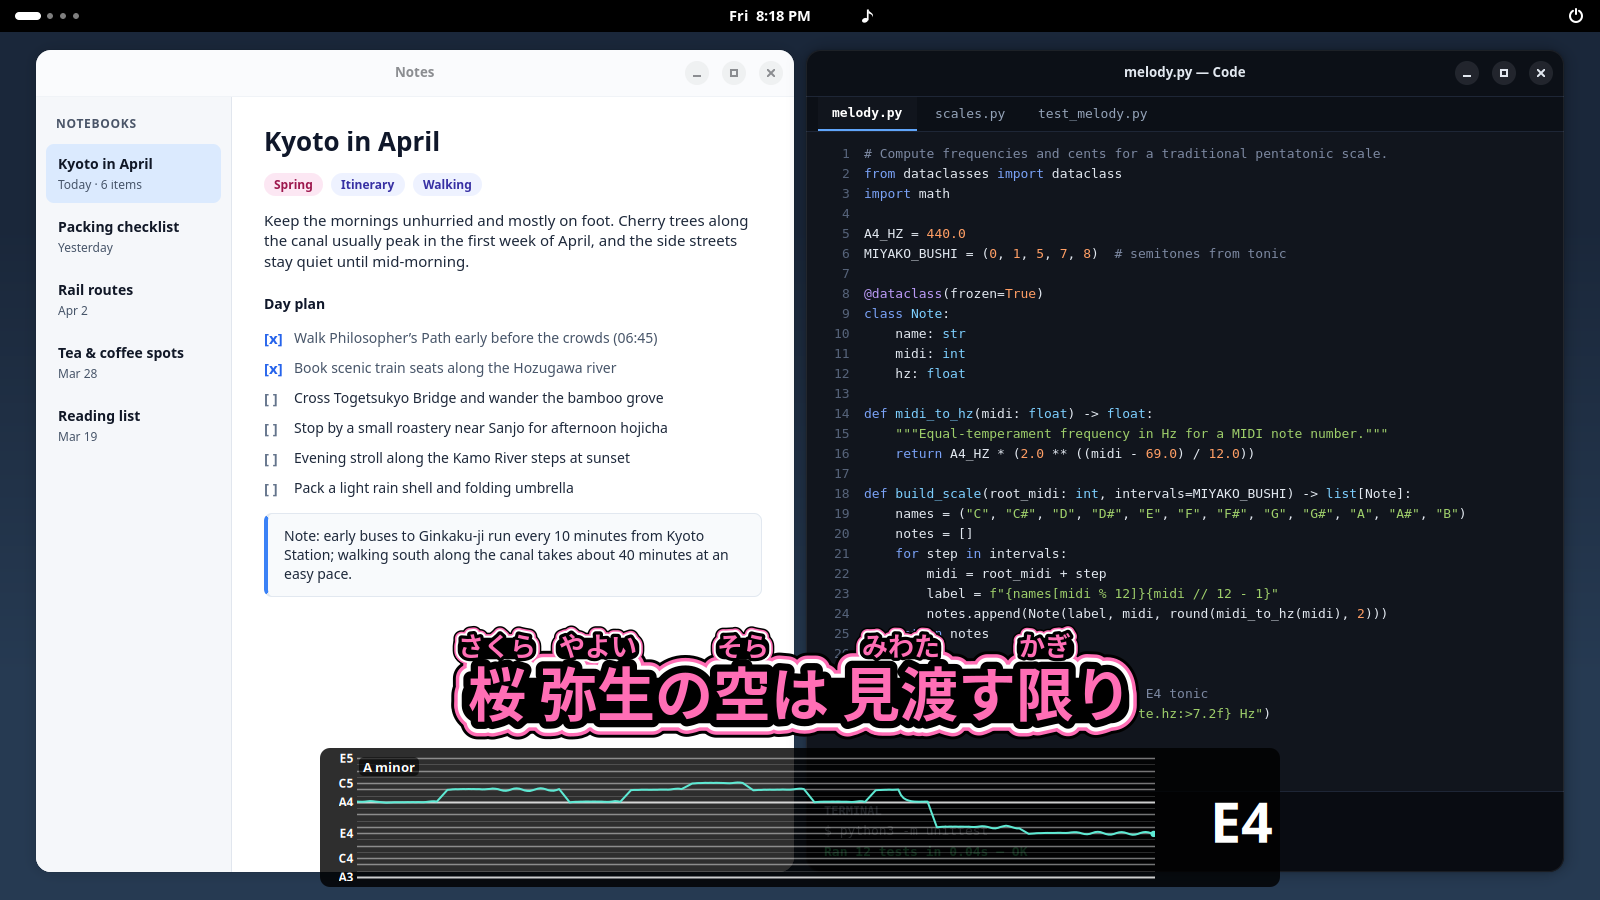
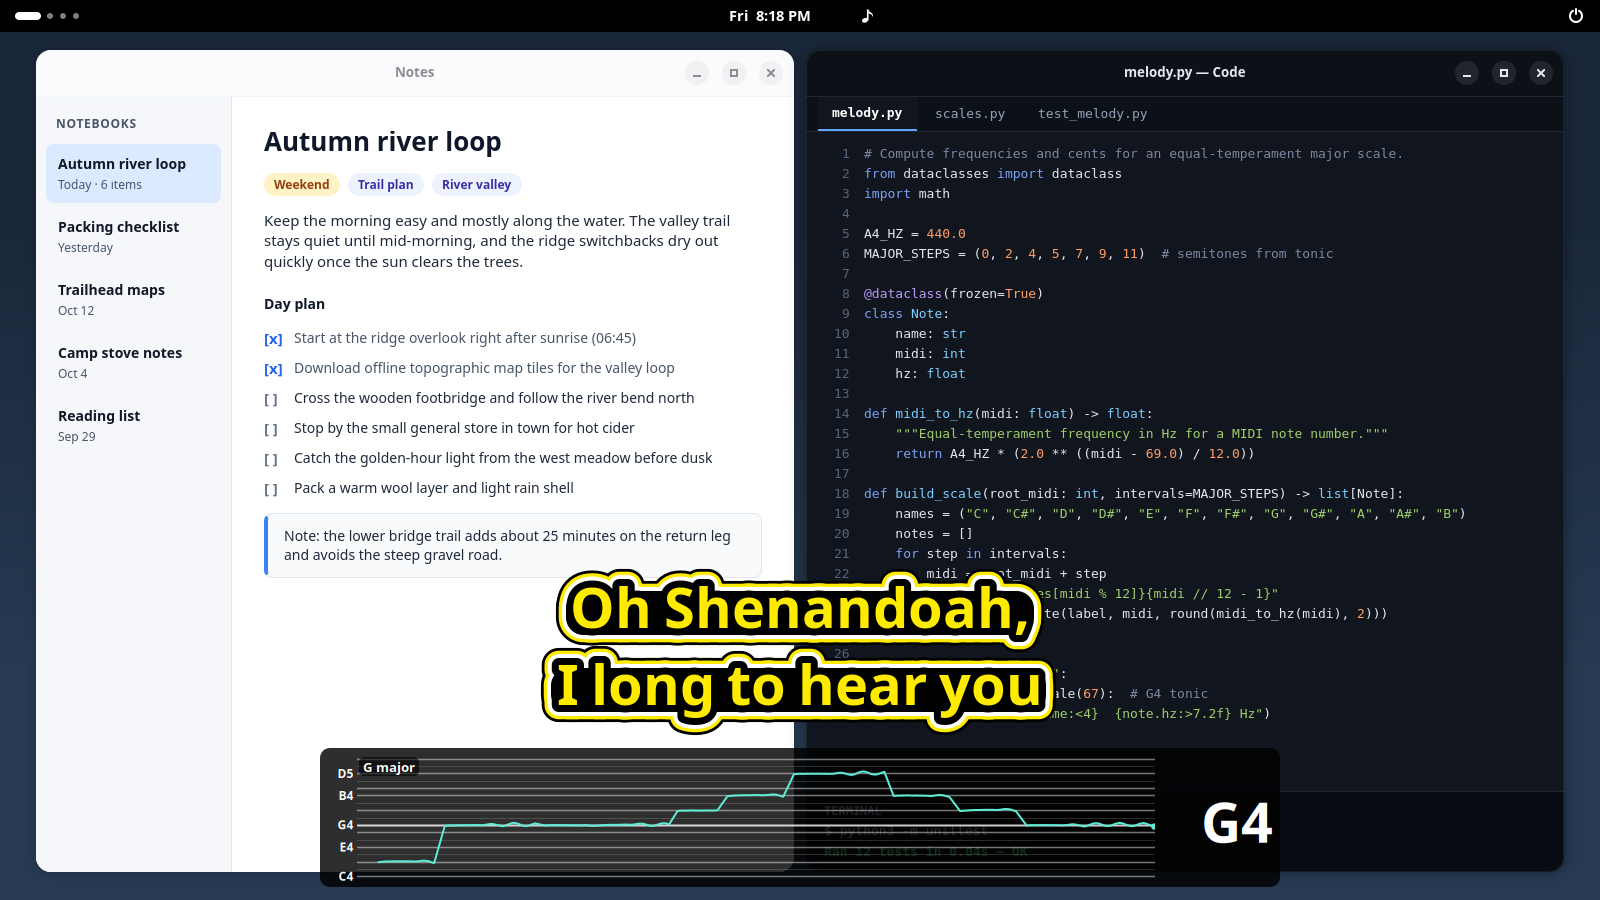
Update README and English-first screenshots for local timing and Full lyrics view

diff --git a/tests/e2e/workspace-notes.js b/tests/e2e/workspace-notes.js
@@ -1,5 +1,5 @@
 // A light-mode notes window for the README's multi-workspace desktop picture
-// (tests/e2e/readme-desktop.mjs). Pure fictional travel notes; no personal data.
+// (tests/e2e/readme-desktop.mjs). Pure fictional trail notes; no personal data.
 //
 //   gjs -m workspace-notes.js <title>
 
@@ -12,20 +12,20 @@ import System from 'system';
 const TITLE = System.programArgs[0] || 'Notes';
 
 const NOTES_LIST = [
-    ['Kyoto in April', 'Today · 6 items', true],
+    ['Autumn river loop', 'Today · 6 items', true],
     ['Packing checklist', 'Yesterday', false],
-    ['Rail routes', 'Apr 2', false],
-    ['Tea & coffee spots', 'Mar 28', false],
-    ['Reading list', 'Mar 19', false],
+    ['Trailhead maps', 'Oct 12', false],
+    ['Camp stove notes', 'Oct 4', false],
+    ['Reading list', 'Sep 29', false],
 ];
 
 const CHECKLIST = [
-    [true, 'Walk Philosopher\u2019s Path early before the crowds (06:45)'],
-    [true, 'Book scenic train seats along the Hozugawa river'],
-    [false, 'Cross Togetsukyo Bridge and wander the bamboo grove'],
-    [false, 'Stop by a small roastery near Sanjo for afternoon hojicha'],
-    [false, 'Evening stroll along the Kamo River steps at sunset'],
-    [false, 'Pack a light rain shell and folding umbrella'],
+    [true, 'Start at the ridge overlook right after sunrise (06:45)'],
+    [true, 'Download offline topographic map tiles for the valley loop'],
+    [false, 'Cross the wooden footbridge and follow the river bend north'],
+    [false, 'Stop by the small general store in town for hot cider'],
+    [false, 'Catch the golden-hour light from the west meadow before dusk'],
+    [false, 'Pack a warm wool layer and light rain shell'],
 ];
 
 const CSS = `
@@ -40,7 +40,7 @@ headerbar { background: #f5f7fa; border-bottom: 1px solid #e1e6ee; }
 .doc { background: #ffffff; padding: 26px 32px; }
 .doc-title { font-size: 26px; font-weight: 800; color: #0f172a; }
 .tag { background: #eef2ff; color: #3730a3; border-radius: 999px; padding: 3px 10px; font-size: 12px; font-weight: 700; }
-.tag-spring { background: #fce7f3; color: #9d174d; }
+.tag-amber { background: #fef3c7; color: #92400e; }
 .doc-body { font-size: 15px; color: #1e293b; }
 .section-head { font-size: 14px; font-weight: 800; color: #0f172a; margin-top: 8px; }
 .check-box { font-size: 15px; font-weight: 700; color: #2563eb; min-width: 20px; }
@@ -71,16 +71,16 @@ function buildSidebar() {
 
 function buildDocument() {
     const doc = new Gtk.Box({orientation: Gtk.Orientation.VERTICAL, spacing: 14, hexpand: true, css_classes: ['doc']});
-    doc.append(label('Kyoto in April', 'doc-title'));
+    doc.append(label('Autumn river loop', 'doc-title'));
 
     const tags = new Gtk.Box({spacing: 8});
-    tags.append(label('Spring', ['tag', 'tag-spring'], {wrap: false}));
-    tags.append(label('Itinerary', 'tag', {wrap: false}));
-    tags.append(label('Walking', 'tag', {wrap: false}));
+    tags.append(label('Weekend', ['tag', 'tag-amber'], {wrap: false}));
+    tags.append(label('Trail plan', 'tag', {wrap: false}));
+    tags.append(label('River valley', 'tag', {wrap: false}));
     doc.append(tags);
 
     doc.append(label(
-        'Keep the mornings unhurried and mostly on foot. Cherry trees along the canal usually peak in the first week of April, and the side streets stay quiet until mid-morning.',
+        'Keep the morning easy and mostly along the water. The valley trail stays quiet until mid-morning, and the ridge switchbacks dry out quickly once the sun clears the trees.',
         'doc-body',
     ));
 
@@ -95,7 +95,7 @@ function buildDocument() {
     doc.append(list);
 
     const callout = new Gtk.Box({orientation: Gtk.Orientation.VERTICAL, spacing: 4, css_classes: ['callout']});
-    callout.append(label('Note: early buses to Ginkaku-ji run every 10 minutes from Kyoto Station; walking south along the canal takes about 40 minutes at an easy pace.', 'callout-text'));
+    callout.append(label('Note: the lower bridge trail adds about 25 minutes on the return leg and avoids the steep gravel road.', 'callout-text'));
     doc.append(callout);
     return doc;
 }

diff --git a/tests/e2e/workspace-code.js b/tests/e2e/workspace-code.js
@@ -12,12 +12,12 @@ import System from 'system';
 const TITLE = System.programArgs[0] || 'melody.py — Code';
 
 const CODE_LINES = [
-    '<span foreground="#7c88a1"># Compute frequencies and cents for a traditional pentatonic scale.</span>',
+    '<span foreground="#7c88a1"># Compute frequencies and cents for an equal-temperament major scale.</span>',
     '<span foreground="#7aa2f7">from</span> dataclasses <span foreground="#7aa2f7">import</span> dataclass',
     '<span foreground="#7aa2f7">import</span> math',
     '',
     'A4_HZ = <span foreground="#ff9e64">440.0</span>',
-    'MIYAKO_BUSHI = (<span foreground="#ff9e64">0</span>, <span foreground="#ff9e64">1</span>, <span foreground="#ff9e64">5</span>, <span foreground="#ff9e64">7</span>, <span foreground="#ff9e64">8</span>)  <span foreground="#7c88a1"># semitones from tonic</span>',
+    'MAJOR_STEPS = (<span foreground="#ff9e64">0</span>, <span foreground="#ff9e64">2</span>, <span foreground="#ff9e64">4</span>, <span foreground="#ff9e64">5</span>, <span foreground="#ff9e64">7</span>, <span foreground="#ff9e64">9</span>, <span foreground="#ff9e64">11</span>)  <span foreground="#7c88a1"># semitones from tonic</span>',
     '',
     '<span foreground="#bb9af7">@dataclass</span>(frozen=<span foreground="#ff9e64">True</span>)',
     '<span foreground="#7aa2f7">class</span> <span foreground="#7dcfff">Note</span>:',
@@ -29,7 +29,7 @@ const CODE_LINES = [
     '    <span foreground="#9ece6a">&quot;&quot;&quot;Equal-temperament frequency in Hz for a MIDI note number.&quot;&quot;&quot;</span>',
     '    <span foreground="#7aa2f7">return</span> A4_HZ * (<span foreground="#ff9e64">2.0</span> ** ((midi - <span foreground="#ff9e64">69.0</span>) / <span foreground="#ff9e64">12.0</span>))',
     '',
-    '<span foreground="#7aa2f7">def</span> <span foreground="#7dcfff">build_scale</span>(root_midi: <span foreground="#7dcfff">int</span>, intervals=MIYAKO_BUSHI) -&gt; <span foreground="#7dcfff">list</span>[Note]:',
+    '<span foreground="#7aa2f7">def</span> <span foreground="#7dcfff">build_scale</span>(root_midi: <span foreground="#7dcfff">int</span>, intervals=MAJOR_STEPS) -&gt; <span foreground="#7dcfff">list</span>[Note]:',
     '    names = (<span foreground="#9ece6a">&quot;C&quot;</span>, <span foreground="#9ece6a">&quot;C#&quot;</span>, <span foreground="#9ece6a">&quot;D&quot;</span>, <span foreground="#9ece6a">&quot;D#&quot;</span>, <span foreground="#9ece6a">&quot;E&quot;</span>, <span foreground="#9ece6a">&quot;F&quot;</span>, <span foreground="#9ece6a">&quot;F#&quot;</span>, <span foreground="#9ece6a">&quot;G&quot;</span>, <span foreground="#9ece6a">&quot;G#&quot;</span>, <span foreground="#9ece6a">&quot;A&quot;</span>, <span foreground="#9ece6a">&quot;A#&quot;</span>, <span foreground="#9ece6a">&quot;B&quot;</span>)',
     '    notes = []',
     '    <span foreground="#7aa2f7">for</span> step <span foreground="#7aa2f7">in</span> intervals:',
@@ -39,7 +39,7 @@ const CODE_LINES = [
     '    <span foreground="#7aa2f7">return</span> notes',
     '',
     '<span foreground="#7aa2f7">if</span> __name__ == <span foreground="#9ece6a">&quot;__main__&quot;</span>:',
-    '    <span foreground="#7aa2f7">for</span> note <span foreground="#7aa2f7">in</span> build_scale(<span foreground="#ff9e64">64</span>):  <span foreground="#7c88a1"># E4 tonic</span>',
+    '    <span foreground="#7aa2f7">for</span> note <span foreground="#7aa2f7">in</span> build_scale(<span foreground="#ff9e64">67</span>):  <span foreground="#7c88a1"># G4 tonic</span>',
     '        print(<span foreground="#9ece6a">f&quot;{note.name:&lt;4}  {note.hz:&gt;7.2f} Hz&quot;</span>)',
 ];
 

diff --git a/README.md b/README.md
@@ -10,13 +10,17 @@ timed to the music, and an optional pitch meter beside or below it draws the
 notes you sing into your microphone against the song's scale.
 
 Lyrics are matched automatically, and your choices and timing adjustments are
-remembered per video. If a track is slightly off or missing, you can nudge the
-timing in half-second steps, search by artist and title, load your own `.lrc`
-or `.txt` file, or let an optional local tool time the lyrics directly from the
-audio. Layered borders keep the text legible over bright and dark windows
-without a solid background bar, optional offline Japanese furigana places
-hiragana readings above kanji, and clicking a lyric jumps straight back to the
-playing tab while empty space passes clicks through to whatever sits behind it.
+remembered per video. Even for rare recordings or brand-new uploads that have
+no lyrics anywhere online, optional local audio timing listens to the track and
+builds timed lyrics automatically — usually in about 5 seconds once the song
+starts playing on a local GPU — and saves them for instant replays. You can
+also open a full-song lyrics view that tracks your place live, nudge timing in
+half-second steps, search or load your own `.lrc`/`.txt` file, or edit and
+anonymously publish verified lyrics back to LRCLIB. Layered borders keep lines
+legible over bright and dark windows alike, optional offline Japanese furigana
+places hiragana readings above kanji, and clicking a lyric jumps straight back
+to the playing tab while empty space passes clicks through to whatever sits
+behind it.
 
 ![Desktop with a song video playing; timed lyrics and the live pitch trace float at the bottom](docs/desktop.png)
 
@@ -26,7 +30,17 @@ YouTube does not need to stay on screen. While you read, write, or code in
 other windows, the lyrics and pitch meter float unobtrusively over both bright
 and dark apps, with a small note icon in the top bar whenever music is playing.
 
-![Working across a light notes window and a dark code editor while Japanese lyrics with furigana and the live pitch trace float above](docs/workspace.png)
+![Working across a light notes window and a dark code editor while timed lyrics and the live pitch trace float above](docs/workspace.png)
+
+## Full lyrics view, local timing, and sharing back
+
+Click **Full lyrics** (or press `L`) whenever you want to read the whole song
+and follow along live without watching the video. If a track had no lyrics
+online, local timing transcribes and saves it automatically — and the **Edit &
+publish** tab lets you fix any words and optionally publish verified lyrics
+anonymously to LRCLIB.
+
+![Full lyrics modal tracking the active line live, with auto-scroll, timing nudges, and Edit & publish tab](docs/full-lyrics.png)
 
 ## Readable over bright and dark scenes
 
@@ -42,7 +56,7 @@ Right-click the lyric, pitch panel, or top-bar note to open the single settings
 page (`http://localhost:8792/settings`). Every change updates the live overlay
 immediately.
 
-![Settings page — Lyrics tab with live Japanese furigana preview and multi-ring border controls](docs/settings.png)
+![Settings page — Lyrics tab with live preview and multi-ring border controls](docs/settings.png)
 
 Arrange the lyric box and pitch panel directly on a map of your monitor, dock
 the pitch panel on any side (or detach it), and adjust note range, scale
@@ -50,10 +64,11 @@ highlighting, and microphone choice:
 
 ![Settings page — Screen map and Pitch tab](docs/settings-map.png)
 
-For the current song, nudge timing, switch between lyric sets, search LRCLIB by
-artist and title, load a local `.lrc` or `.txt` file, or trigger local timing:
+For the current song, open full lyrics, nudge timing, switch lyric sets
+(including locally transcribed ones), search by artist and title, load a local
+`.lrc` or `.txt` file, or edit and publish to LRCLIB:
 
-![Settings page — Song tab with timing nudges, manual search, and local file import](docs/settings-song.png)
+![Settings page — Song tab with locally transcribed lyrics, timing nudges, manual search, and local file import](docs/settings-song.png)
 
 ## Everyday controls
 
@@ -65,6 +80,7 @@ artist and title, load a local `.lrc` or `.txt` file, or trigger local timing:
 | `Ctrl+drag` pitch panel | Moves, resizes from any edge, or docks against a side of the lyric |
 | Click top-bar note | Toggles the overlay on or off |
 | Right-click lyric, pitch panel, or note | Opens or raises the settings page |
+| **Full lyrics** button (or `L`) | Opens the live full-song lyrics view and **Edit & publish** editor |
 
 ---
 
@@ -104,7 +120,8 @@ it.
 
 - The Firefox add-on talks only to the local service on this computer.
 - Lyric lookups go to [LRCLIB](https://lrclib.net) with a generic User-Agent,
-  cached for 7 days and strictly rate-limited.
+  cached for 7 days and strictly rate-limited. Publishing back to LRCLIB is
+  strictly manual and anonymous (no account needed).
 - Offline Japanese furigana and optional local audio timing run on this
   computer; temporary audio is deleted immediately and lyric text is never
   written to logs.

diff --git a/docs/operations.md b/docs/operations.md
@@ -151,9 +151,9 @@ overlay, and the testing lessons behind the rules. What it is for:
   draws `docs/indicator-icons.png` after an icon changes;
   `scripts/update-readme-pictures.sh` runs `tests/e2e/readme-desktop.mjs`
   (`docs/desktop.png` and `docs/workspace.png`), `scripts/styles-picture.mjs`
-  (`docs/styles.png`), and `scripts/settings-page-picture.mjs`
-  (`docs/settings.png`, `docs/settings-map.png`, `docs/settings-song.png` in
-  headless Firefox with made-up microphones) and copies each picture into
+  (`docs/styles.png`), and   `scripts/settings-page-picture.mjs` (`docs/settings.png`,
+  `docs/settings-map.png`, `docs/settings-song.png`, and `docs/full-lyrics.png`
+  in headless Firefox with made-up microphones) and copies each picture into
   `docs/` without PNG text chunks so an unchanged picture stays the same file.
 
 ## Release the Firefox extension
